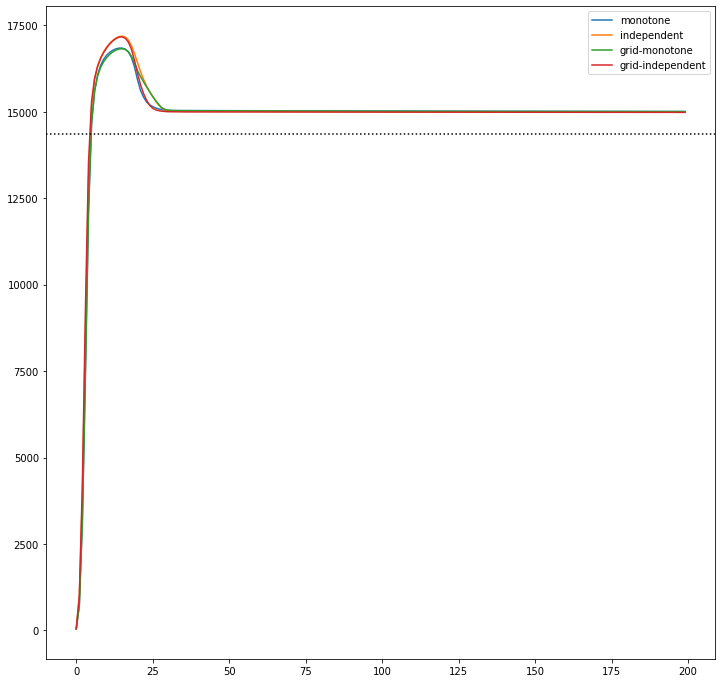
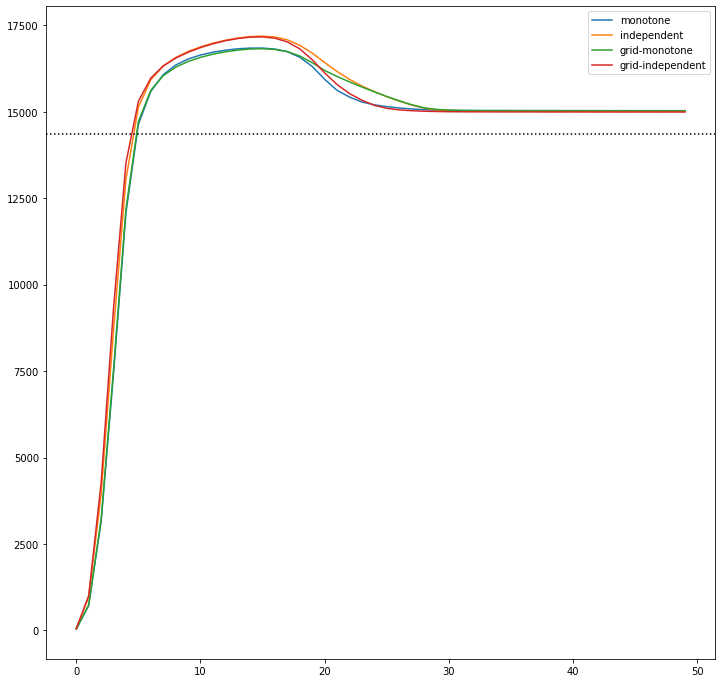
generate convergence graphs

diff --git a/examples_cross.py b/examples_cross.py
@@ -73,6 +73,9 @@ _file_prefix = 'results_'
 _file_suffix = '.pickle'
 
 def dump_results(results, label='test'):
+    # to do: move to cpu before dumping
+    # cpu_device = torch.device('cpu')
+    # ...
     _path = _dir + _file_prefix + label + _file_suffix
     with open(_path, 'wb') as file:
         pickle.dump(results, file)
@@ -169,23 +172,23 @@ ws3, xyset3 = vmot.generate_working_sample_uv(uvset3, normal_inv_cum_xi, normal_
 ws4, xyset4 = vmot.generate_working_sample_uv_mono(uvset4, normal_inv_cum_x, normal_inv_cum_yi, minus_cost_f)
 
 # train/store/load
-model1, D_evo1, H_evo1, P_evo1, ds_evo1, hs_evo1 = vmot.mtg_train(ws1, opt_parameters, monotone = False, verbose = 100)
-model2, D_evo2, H_evo2, P_evo2, ds_evo2, hs_evo2 = vmot.mtg_train(ws2, opt_parameters, monotone = True, verbose = 100)
-model3, D_evo3, H_evo3, P_evo3, ds_evo3, hs_evo3 = vmot.mtg_train(ws3, opt_parameters, monotone = False, verbose = 100)
-model4, D_evo4, H_evo4, P_evo4, ds_evo4, hs_evo4 = vmot.mtg_train(ws4, opt_parameters, monotone = True, verbose = 100)
-dump_results([model1, D_evo1, H_evo1, P_evo1, ds_evo1, hs_evo1,
-              model2, D_evo2, H_evo2, P_evo2, ds_evo2, hs_evo2,
-               model3, D_evo3, H_evo3, P_evo3, ds_evo3, hs_evo3,
-               model4, D_evo4, H_evo4, P_evo4, ds_evo4, hs_evo4  ], 'normal')
+# model1, D_evo1, H_evo1, P_evo1, ds_evo1, hs_evo1 = vmot.mtg_train(ws1, opt_parameters, monotone = False, verbose = 100)
+# model2, D_evo2, H_evo2, P_evo2, ds_evo2, hs_evo2 = vmot.mtg_train(ws2, opt_parameters, monotone = True, verbose = 100)
+# model3, D_evo3, H_evo3, P_evo3, ds_evo3, hs_evo3 = vmot.mtg_train(ws3, opt_parameters, monotone = False, verbose = 100)
+# model4, D_evo4, H_evo4, P_evo4, ds_evo4, hs_evo4 = vmot.mtg_train(ws4, opt_parameters, monotone = True, verbose = 100)
+# dump_results([model1, D_evo1, H_evo1, P_evo1, ds_evo1, hs_evo1,
+#               model2, D_evo2, H_evo2, P_evo2, ds_evo2, hs_evo2,
+#                model3, D_evo3, H_evo3, P_evo3, ds_evo3, hs_evo3,
+#                model4, D_evo4, H_evo4, P_evo4, ds_evo4, hs_evo4  ], 'normal')
 model1, D_evo1, H_evo1, P_evo1, ds_evo1, hs_evo1, model2, D_evo2, H_evo2, P_evo2, ds_evo2, hs_evo2, model3, D_evo3, H_evo3, P_evo3, ds_evo3, hs_evo3, model4, D_evo4, H_evo4, P_evo4, ds_evo4, hs_evo4 = load_results('normal')
 
 # plot
-evo1 = -np.array(D_evo1) # random, independent
-evo2 = -np.array(D_evo2) # random, monotone
+evo1 = -np.array(D_evo1[:50]) # random, independent
+evo2 = -np.array(D_evo2[:50]) # random, monotone
 convergence_plot([evo2, evo1], ['monotone', 'independent'], ref_value)
 
-evo3 = -np.array(D_evo3) # grid, independent
-evo4 = -np.array(D_evo4) # grid, monotone
+evo3 = -np.array(D_evo3[:50]) # grid, independent
+evo4 = -np.array(D_evo4[:50]) # grid, monotone
 convergence_plot([evo2, evo1, evo4, evo3], ['monotone', 'independent', 'grid-monotone', 'grid-independent'], ref_value)
 
 
@@ -217,23 +220,23 @@ ws4, xyset4 = vmot.generate_working_sample_uv_mono(uvset4, empirical_inv_cum_x, 
 sample_mean_cost = -0.5 * (ws1[:,-2].mean() + ws2[:,-2].mean())   # lower reference for the optimal cost
 
 # train/store/load
-model1, D_evo1, H_evo1, P_evo1, ds_evo1, hs_evo1 = vmot.mtg_train(ws1, opt_parameters, monotone = False, verbose = 100)
-model2, D_evo2, H_evo2, P_evo2, ds_evo2, hs_evo2 = vmot.mtg_train(ws2, opt_parameters, monotone = True, verbose = 100)
-model3, D_evo3, H_evo3, P_evo3, ds_evo3, hs_evo3 = vmot.mtg_train(ws3, opt_parameters, monotone = False, verbose = 100)
-model4, D_evo4, H_evo4, P_evo4, ds_evo4, hs_evo4 = vmot.mtg_train(ws4, opt_parameters, monotone = True, verbose = 100)
-dump_results([model1, D_evo1, H_evo1, P_evo1, ds_evo1, hs_evo1,
-              model2, D_evo2, H_evo2, P_evo2, ds_evo2, hs_evo2,
-              model3, D_evo3, H_evo3, P_evo3, ds_evo3, hs_evo3,
-              model4, D_evo4, H_evo4, P_evo4, ds_evo4, hs_evo4  ], 'empirical')
+# model1, D_evo1, H_evo1, P_evo1, ds_evo1, hs_evo1 = vmot.mtg_train(ws1, opt_parameters, monotone = False, verbose = 100)
+# model2, D_evo2, H_evo2, P_evo2, ds_evo2, hs_evo2 = vmot.mtg_train(ws2, opt_parameters, monotone = True, verbose = 100)
+# model3, D_evo3, H_evo3, P_evo3, ds_evo3, hs_evo3 = vmot.mtg_train(ws3, opt_parameters, monotone = False, verbose = 100)
+# model4, D_evo4, H_evo4, P_evo4, ds_evo4, hs_evo4 = vmot.mtg_train(ws4, opt_parameters, monotone = True, verbose = 100)
+# dump_results([model1, D_evo1, H_evo1, P_evo1, ds_evo1, hs_evo1,
+#               model2, D_evo2, H_evo2, P_evo2, ds_evo2, hs_evo2,
+#               model3, D_evo3, H_evo3, P_evo3, ds_evo3, hs_evo3,
+#               model4, D_evo4, H_evo4, P_evo4, ds_evo4, hs_evo4  ], 'empirical')
 model1, D_evo1, H_evo1, P_evo1, ds_evo1, hs_evo1, model2, D_evo2, H_evo2, P_evo2, ds_evo2, hs_evo2, model3, D_evo3, H_evo3, P_evo3, ds_evo3, hs_evo3, model4, D_evo4, H_evo4, P_evo4, ds_evo4, hs_evo4 = load_results('empirical')
 
 # plot
-evo1 = -np.array(D_evo1)
-evo2 = -np.array(D_evo2)
+evo1 = -np.array(D_evo1[:50])
+evo2 = -np.array(D_evo2[:50])
 convergence_plot([evo2, evo1], ['monotone', 'independent'], sample_mean_cost)
 
-evo3 = -np.array(D_evo3) # grid, independent
-evo4 = -np.array(D_evo4) # grid, monotone
+evo3 = -np.array(D_evo3[:50]) # grid, independent
+evo4 = -np.array(D_evo4[:50]) # grid, monotone
 convergence_plot([evo2, evo1, evo4, evo3], ['monotone', 'independent', 'grid-monotone', 'grid-independent'], sample_mean_cost)
 
 
